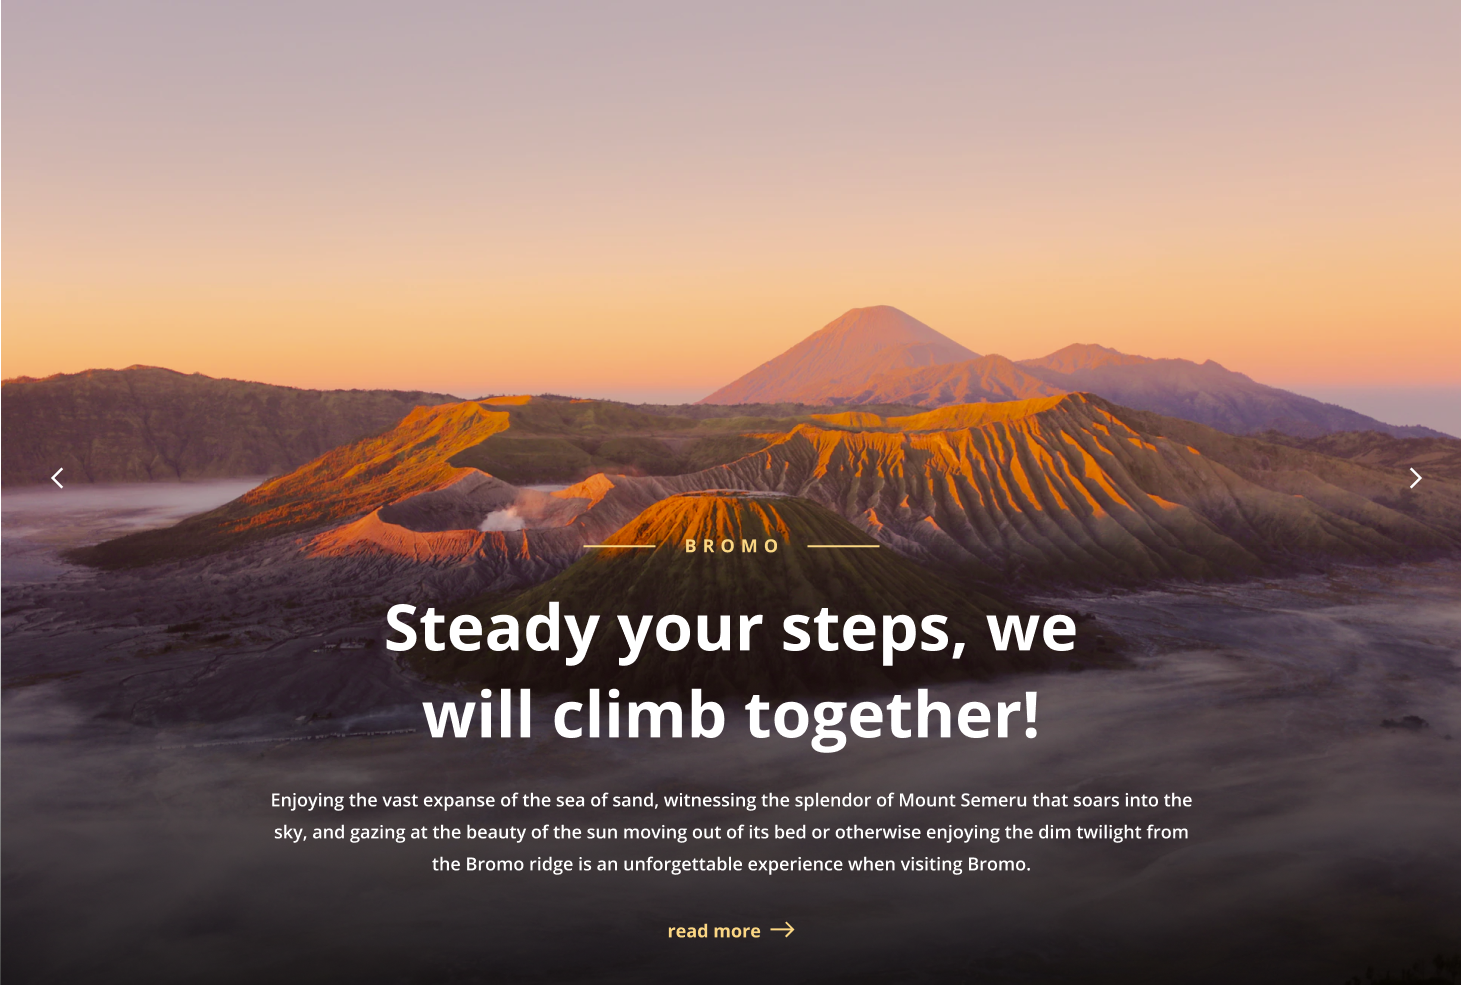
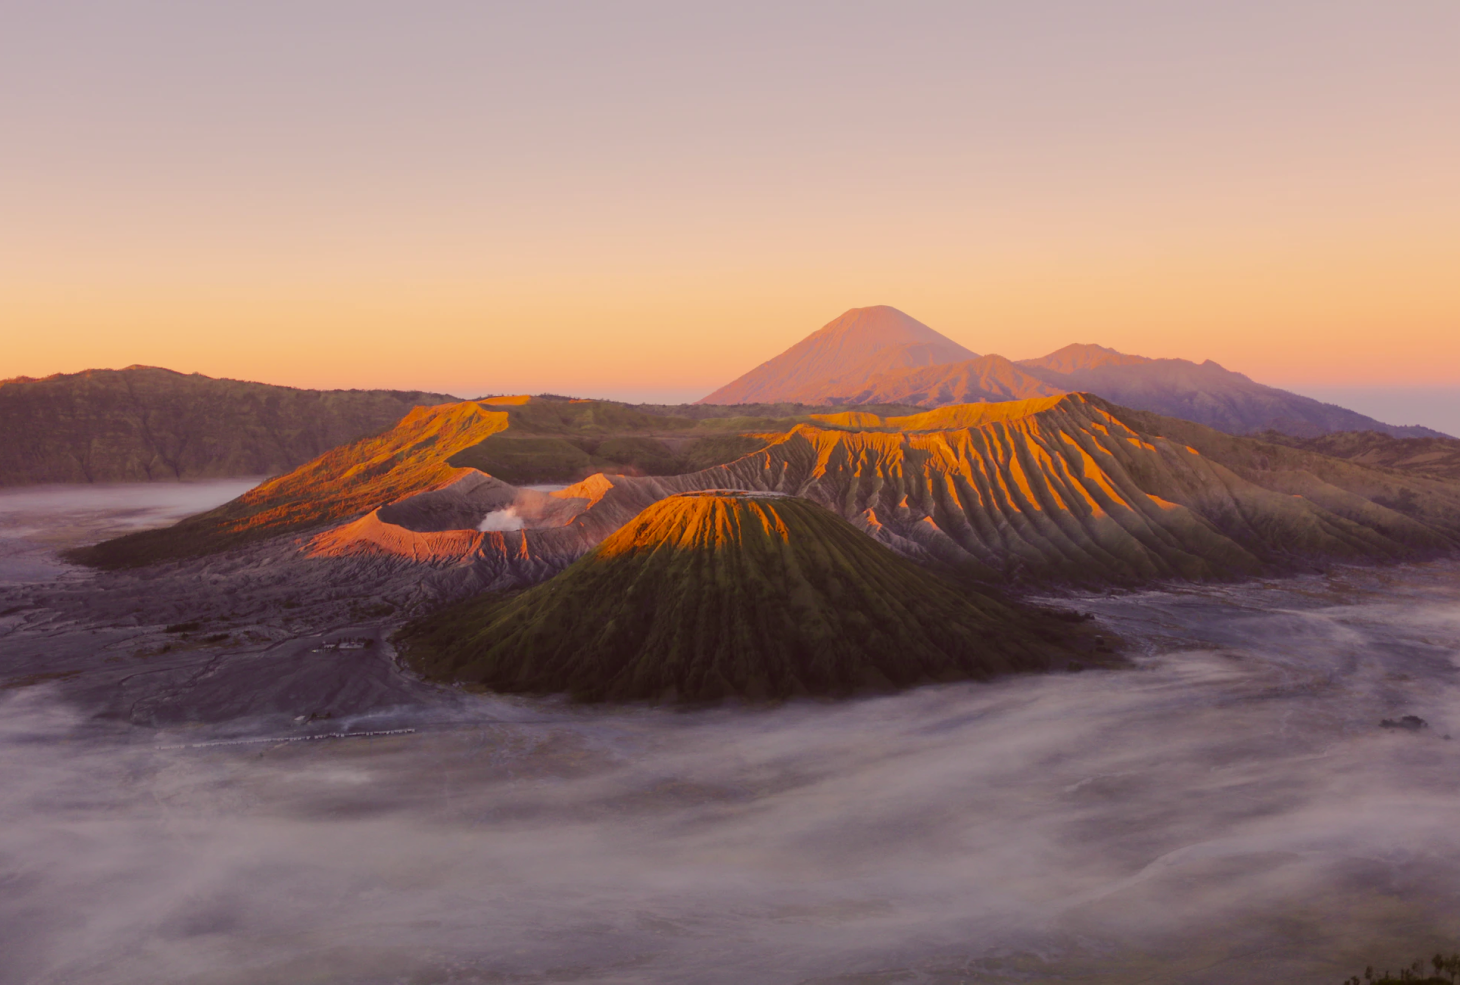
feat: add slider section

diff --git a/src/index.html b/src/index.html
@@ -75,12 +75,12 @@
       </div>
     </div>
     <div class="container">
-      <div class="post">
+      <div class="post info-block">
         <img
           src="./assets/images/nusa.png"
           alt="landscape image of East Nusa Tenggara"
           class="post__image" />
-        <section class="content">
+        <section class="content info-block__content">
           <h2 class="content__title">EAST NUSA TENGGARA</h2>
           <h3 class="content__subtitle">
             Have you <br />
@@ -101,6 +101,89 @@
               alt="arrow down icon" />
           </a>
         </section>
+      </div>
+      <div class="post slider">
+        <button
+          id="btnPrev"
+          class="button slider__button button_prev"></button>
+        <div class="slider__wrapper">
+          <div
+            class="slider__row"
+            id="slider-body">
+            <div class="slider__item">
+              <section class="content slider__content">
+                <h2 class="content__title slider__title">BROMO</h2>
+                <h3 class="content__subtitle slider__subtitle">
+                  Steady your steps, we will climb together!
+                </h3>
+                <p class="content__text">
+                  Enjoying the vast expanse of the sea of sand, witnessing the
+                  splendor of Mount Semeru that soars into the sky, and gazing at the
+                  beauty of the sun moving out of its bed or otherwise enjoying the dim
+                  twilight from the Bromo ridge is an unforgettable experience when
+                  visiting Bromo.
+                </p>
+                <a
+                  href="#"
+                  class="content__link"
+                  >read more
+                  <img
+                    src="./assets/icons/arrow_right.svg"
+                    alt="arrow down icon" />
+                </a>
+              </section>
+            </div>
+            <div class="slider__item">
+              <section class="content slider__content">
+                <h2 class="content__title slider__title">BROMO</h2>
+                <h3 class="content__subtitle slider__subtitle">
+                  Steady your steps, we will climb together!
+                </h3>
+                <p class="content__text">
+                  Enjoying the vast expanse of the sea of sand, witnessing the
+                  splendor of Mount Semeru that soars into the sky, and gazing at the
+                  beauty of the sun moving out of its bed or otherwise enjoying the dim
+                  twilight from the Bromo ridge is an unforgettable experience when
+                  visiting Bromo.
+                </p>
+                <a
+                  href="#"
+                  class="content__link"
+                  >read more
+                  <img
+                    src="./assets/icons/arrow_right.svg"
+                    alt="arrow down icon" />
+                </a>
+              </section>
+            </div>
+            <div class="slider__item">
+              <section class="content slider__content">
+                <h2 class="content__title slider__title">BROMO</h2>
+                <h3 class="content__subtitle slider__subtitle">
+                  Steady your steps, we will climb together!
+                </h3>
+                <p class="content__text">
+                  Enjoying the vast expanse of the sea of sand, witnessing the
+                  splendor of Mount Semeru that soars into the sky, and gazing at the
+                  beauty of the sun moving out of its bed or otherwise enjoying the dim
+                  twilight from the Bromo ridge is an unforgettable experience when
+                  visiting Bromo.
+                </p>
+                <a
+                  href="#"
+                  class="content__link"
+                  >read more
+                  <img
+                    src="./assets/icons/arrow_right.svg"
+                    alt="arrow down icon" />
+                </a>
+              </section>
+            </div>
+          </div>
+        </div>
+        <button
+          id="btnNext"
+          class="button slider__button button_next"></button>
       </div>
     </div>
   </body>

diff --git a/src/styles/slider-block.scss b/src/styles/slider-block.scss
@@ -1,0 +1,86 @@
+@import "./variables.scss";
+
+.slider {
+  height: 985px;
+  max-width: 1460px;
+
+  &__button {
+    width: 30px;
+    height: 30px;
+    background: url("../assets/icons/chevron.svg");
+    background-position: center;
+    background-repeat: no-repeat;
+    background-size: cover;
+    border: none;
+    cursor: pointer;
+
+    &:hover {
+      filter: contrast(0.7);
+    }
+    &:active {
+      filter: contrast(0.3);
+    }
+  }
+
+  .button_prev {
+    position: relative;
+    z-index: 2;
+    left: 50px;
+  }
+  .button_next {
+    position: relative;
+    z-index: 2;
+    right: 50px;
+    transform: rotate(180deg);
+  }
+
+  &__content {
+    max-width: 935px;
+    text-align: center;
+    display: flex;
+    flex-direction: column;
+    align-items: center;
+  }
+
+  &__title {
+    &::after {
+      content: "";
+      display: block;
+      height: 2px;
+      width: 72px;
+      margin-left: 32px;
+      background-color: $color-primary2;
+    }
+  }
+
+  &__subtitle {
+    max-width: 705px;
+  }
+
+  &__wrapper {
+    width: 1460px;
+    height: 985px;
+    overflow: hidden;
+    position: relative;
+  }
+
+  &__row {
+    width: calc(3 * 1460px);
+    height: 100%;
+    display: flex;
+    position: relative;
+    transition: all 0.3s;
+  }
+
+  &__item {
+    width: calc(100% / 3);
+    background: url("../assets/images/bromo.png");
+    background-size: contain;
+    background-position: center;
+    background-repeat: no-repeat;
+    display: flex;
+    align-items: flex-end;
+    justify-content: center;
+    padding: 40px;
+  }
+}

diff --git a/src/scripts/slider.js b/src/scripts/slider.js
@@ -1,0 +1,23 @@
+const sliderBody = document.querySelector("#slider-body");
+const btnPrev = document.querySelector("#btnPrev");
+const btnNext = document.querySelector("#btnNext");
+
+let count = 0;
+const positions = [0, 1460, 2920];
+
+btnPrev.addEventListener("click", () => {
+  if (count === 0) {
+    count = 2;
+  } else {
+    count--;
+  }
+  sliderBody.style.right = `${positions[count]}px`;
+});
+btnNext.addEventListener("click", () => {
+  if (count === 2) {
+    count = 0;
+  } else {
+    count++;
+  }
+  sliderBody.style.right = `${positions[count]}px`;
+});

diff --git a/src/styles/info-block.scss b/src/styles/info-block.scss
@@ -4,9 +4,15 @@
   display: flex;
   align-items: center;
   justify-content: space-between;
+  margin-bottom: 250px;
+
+  &.info-block {
+    .content {
+      max-width: 632px;
+    }
+  }
 
   .content {
-    max-width: 632px;
     * {
       margin: 0;
       padding: 0;

diff --git a/src/styles/main.scss b/src/styles/main.scss
@@ -1,6 +1,7 @@
 @import "variables.scss";
 @import "first-page.scss";
 @import "info-block.scss";
+@import "slider-block.scss";
 
 body {
   max-width: 100vw;

diff --git a/src/index.js b/src/index.js
@@ -1,3 +1,4 @@
 import "./index.html";
 import "./styles/normalize.css";
 import "./styles/main.scss";
+import "./scripts/slider";
